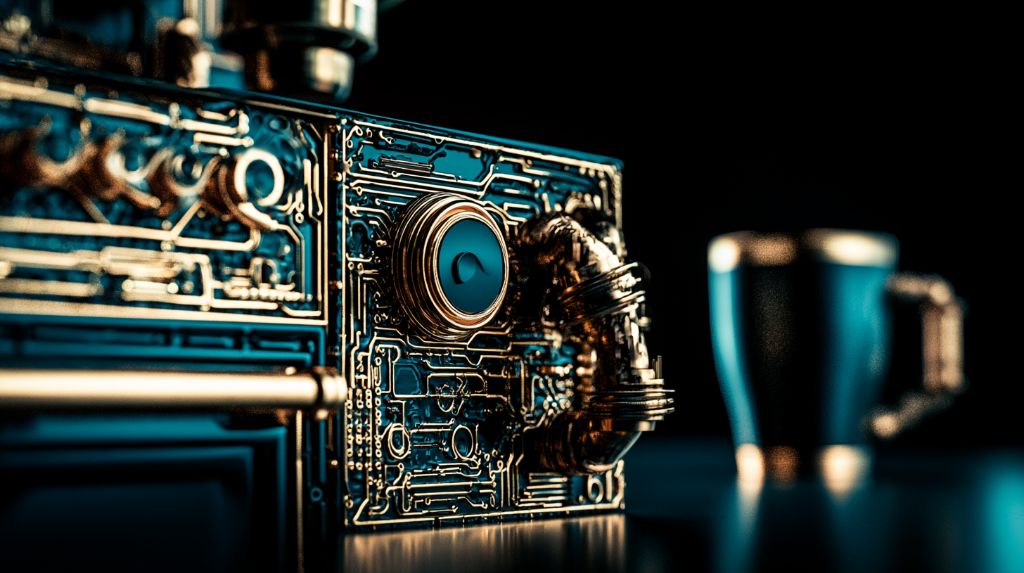
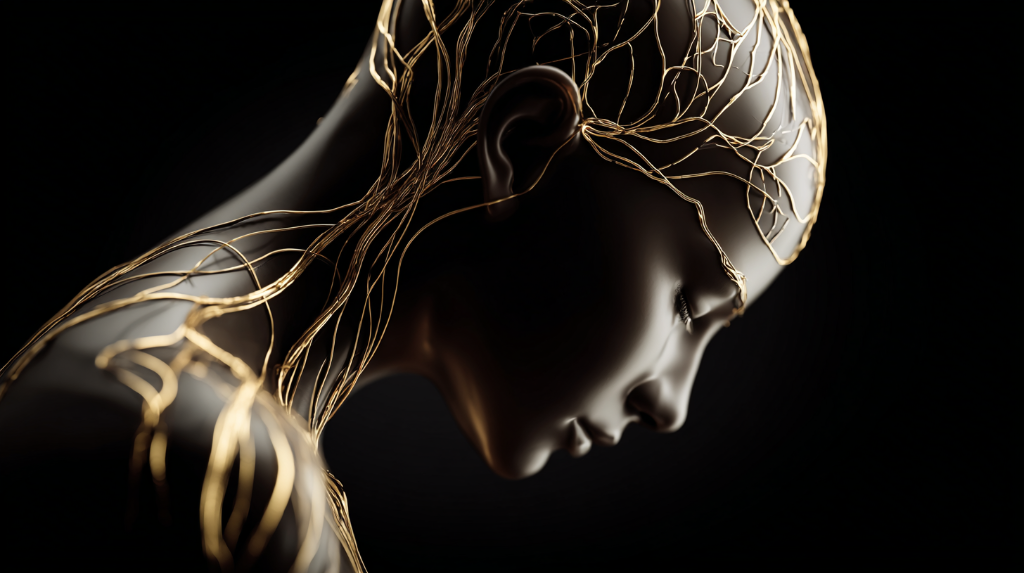
design: update hero background with neural pathway asset and remove mock WhatsApp container

diff --git a/app/page.tsx b/app/page.tsx
@@ -304,26 +304,6 @@ export default function HomePage() {
           <div className="hero-image" aria-hidden="true">
             <div className="hero-image-inner">
               <div className="hero-image-content">
-                <div className="hero-whatsapp-card">
-                  <div className="wa-msg">
-                    <div className="wa-avatar bot">S</div>
-                    <div className="wa-bubble bot">
-                      Hey! Which area feels hardest right now — money, energy, or planning? 💬
-                    </div>
-                  </div>
-                  <div className="wa-msg user">
-                    <div className="wa-avatar user">A</div>
-                    <div className="wa-bubble user">Honestly, all three. But money first.</div>
-                  </div>
-                  <div className="wa-msg">
-                    <div className="wa-avatar bot">S</div>
-                    <div className="wa-typing">
-                      <div className="wa-dot"></div>
-                      <div className="wa-dot"></div>
-                      <div className="wa-dot"></div>
-                    </div>
-                  </div>
-                </div>
                 <div className="hero-stats">
                   <div className="hero-stat">
                     <div className="hero-stat-num">7</div>

diff --git a/app/globals.css b/app/globals.css
@@ -390,7 +390,7 @@ p {
   min-height: 400px;
   background: linear-gradient(135deg, rgba(47, 107, 80, 0.45) 0%, rgba(13, 43, 30, 0.6) 100%), url('/Images/hero-bg.png') no-repeat center center / cover;
   display: flex;
-  align-items: center;
+  align-items: flex-end;
   justify-content: center;
   position: relative;
   overflow: hidden;
